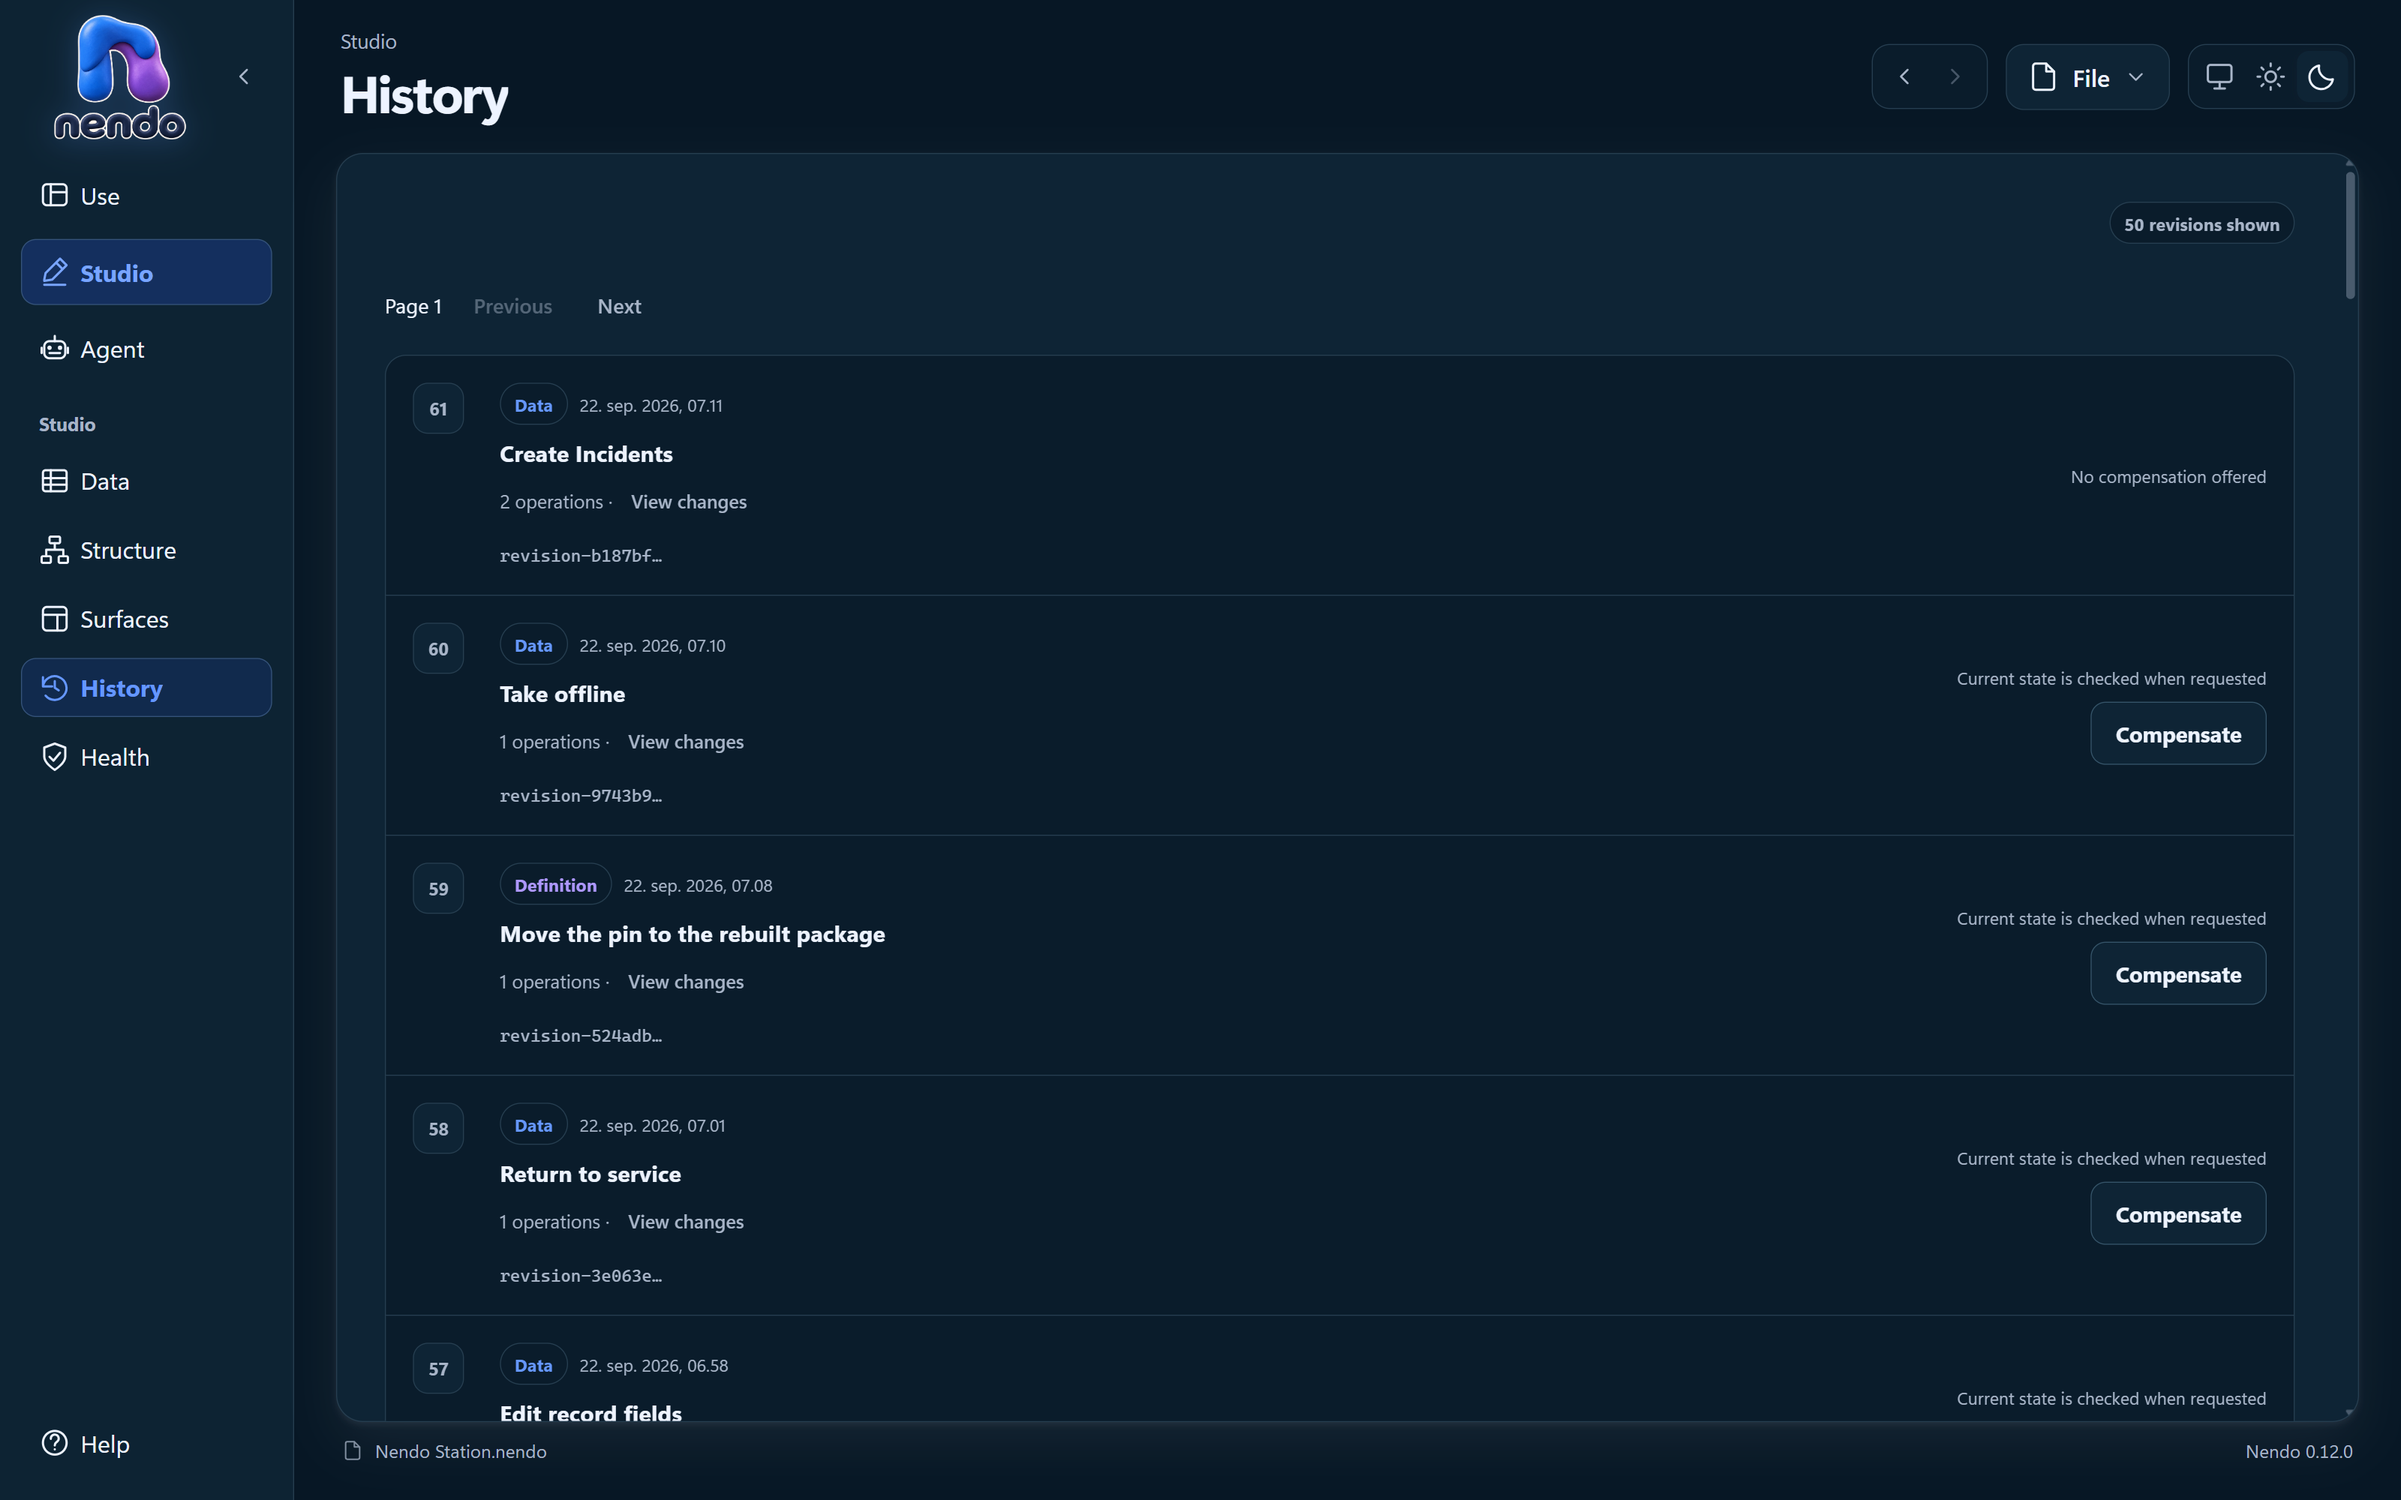
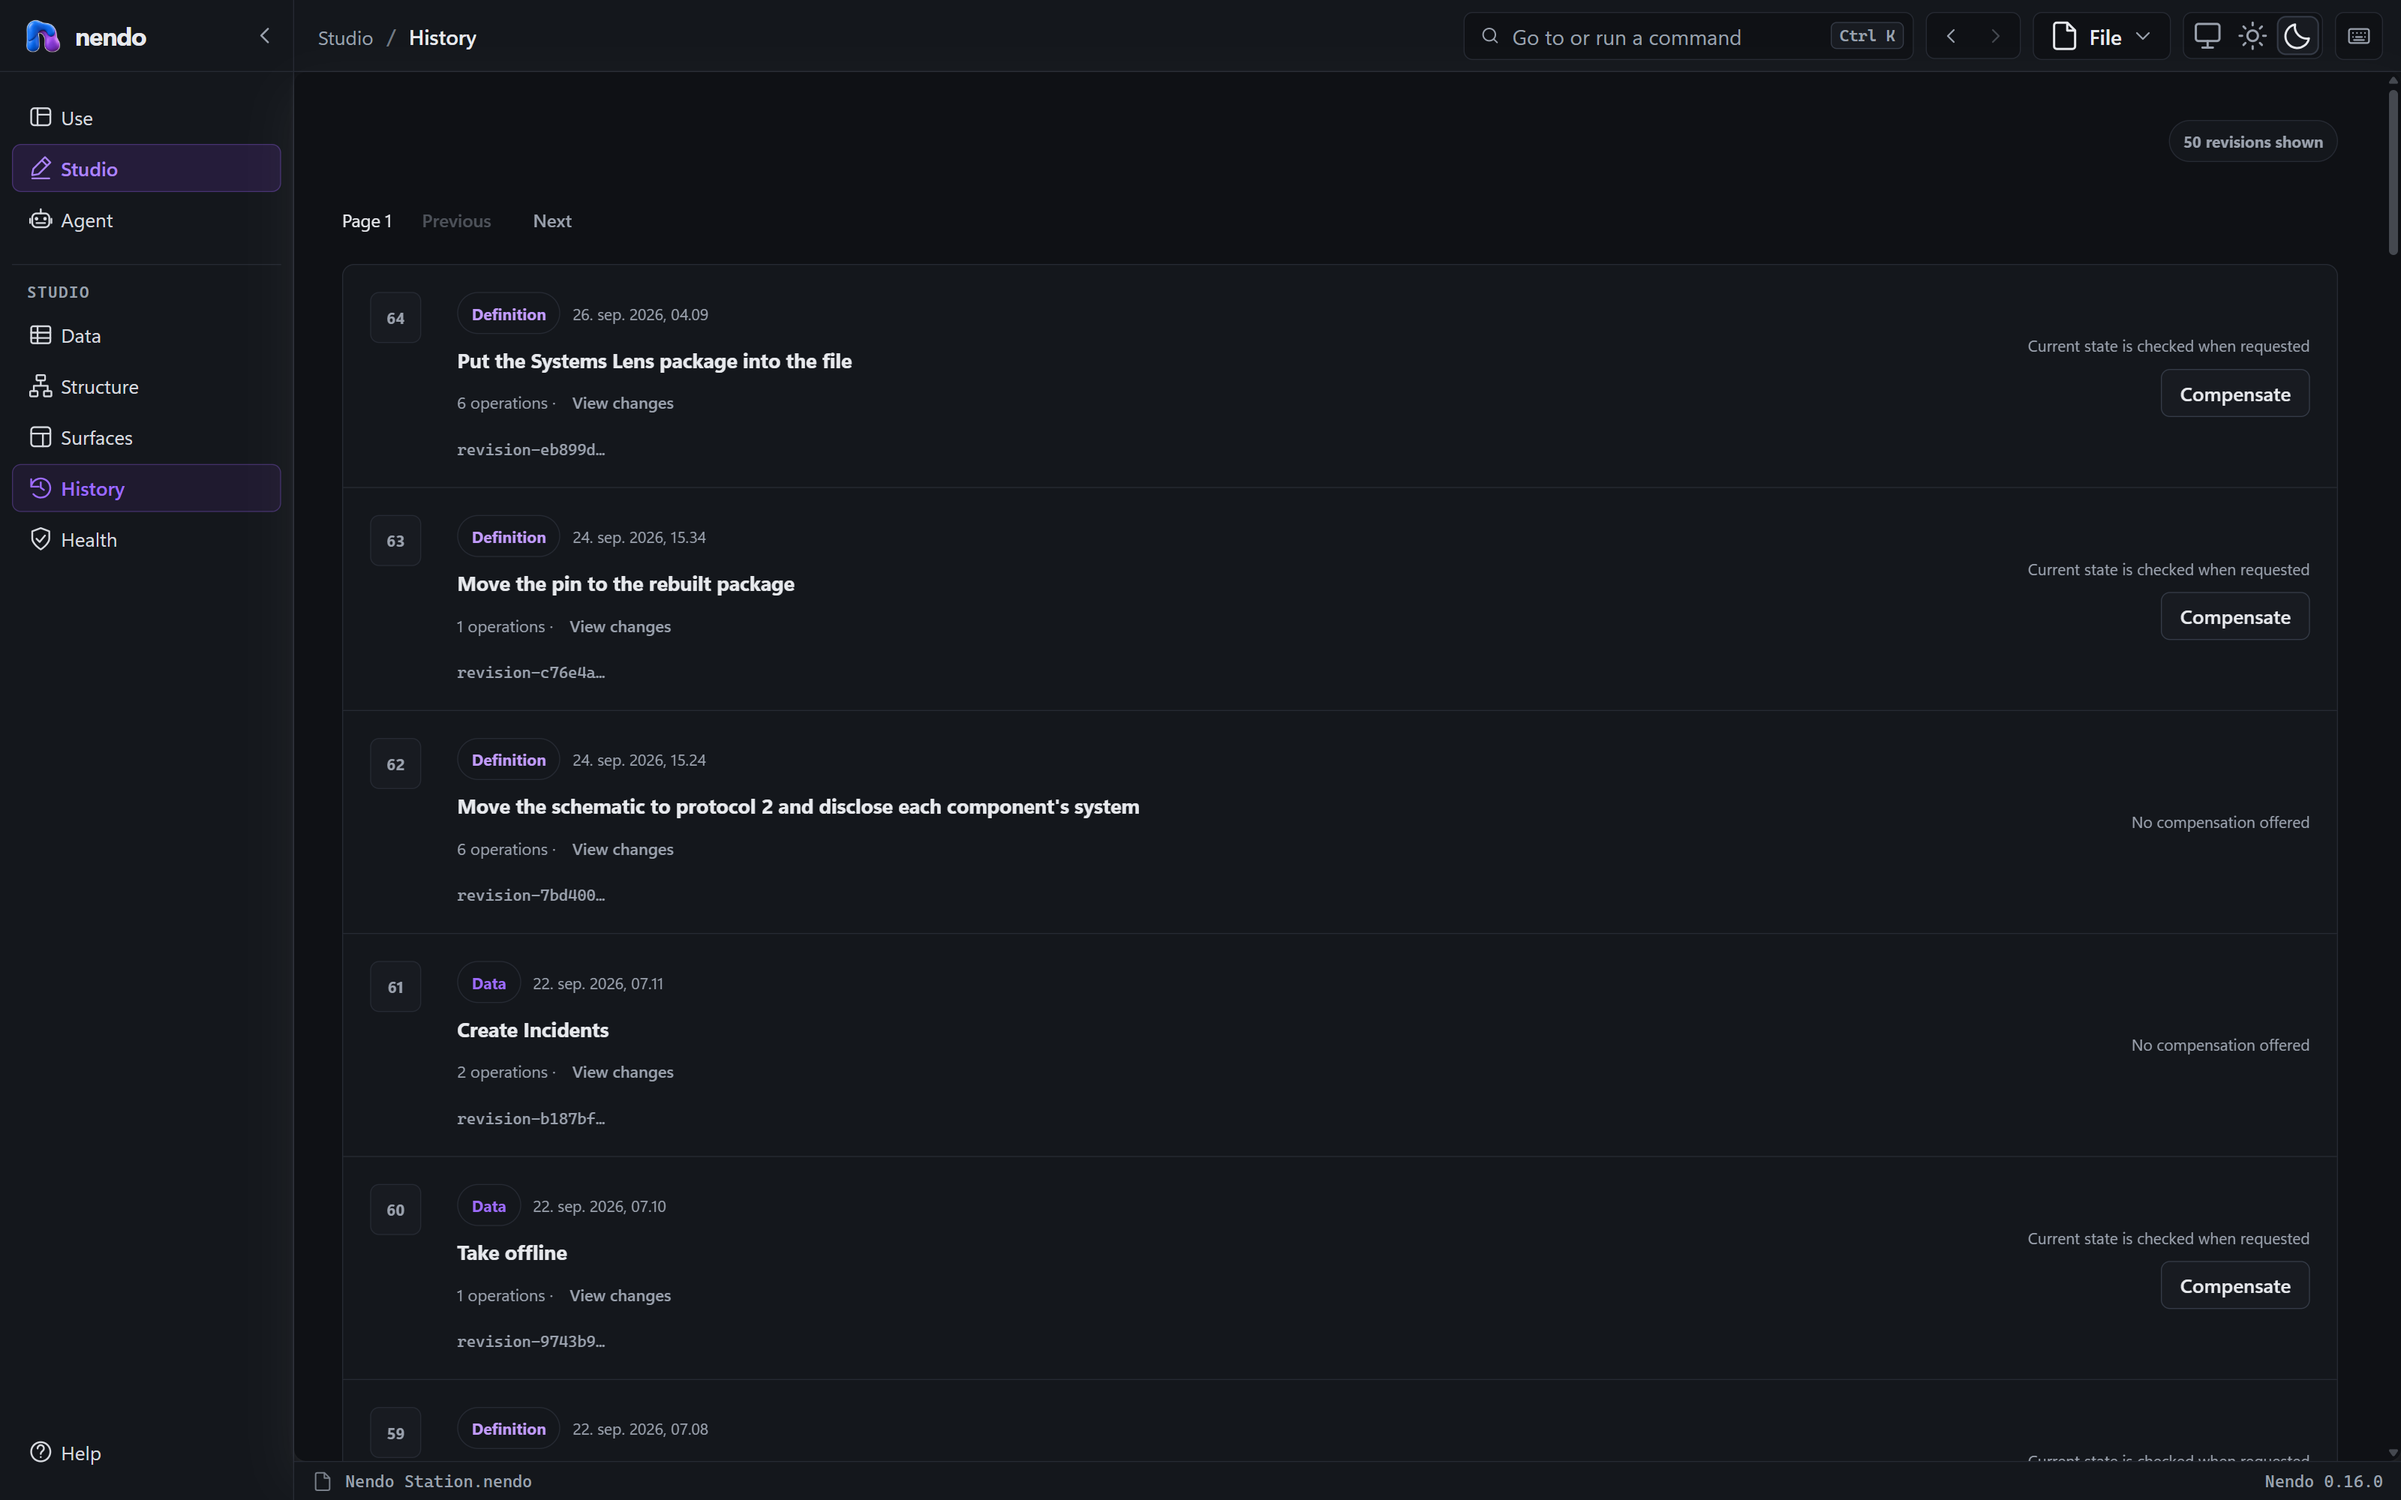
Cut 0.16.0
The Console visual direction (W-067): the whole app restyled, a command
palette on Ctrl K, page shortcuts, and a Show keyboard shortcuts toggle.
The site's 24 screenshots are recaptured from the 0.16.0 debug build
against Nendo Station.

Test-Production passed on this tree, and so did Test-Site, the repository
gate and the isolated setup lane on the rebuilt installer.

diff --git a/README.md b/README.md
@@ -24,7 +24,7 @@ documentation rendered as a site.
 </p>
 
 <p align="center"><sub>A board an agent authored over MCP, in the running host.
-Captured from the 2026-09-12 review build (0.15.0 is current), with the rest of
+Captured from the 2026-09-12 review build (0.16.0 is current), with the rest of
 that review in <a href="docs/reviews/README.md">docs/reviews/</a>.</sub></p>
 
 The installed host always provides **Nendo Studio**, a high-quality database

diff --git a/site/src/content/docs/roadmap.md b/site/src/content/docs/roadmap.md
@@ -20,7 +20,7 @@ The core loop works end to end:
    calculations or actions.
 5. Review the agent's proposal as a semantic diff, and accept or reject it.
 
-The current version is 0.15.0. It runs on Windows x64 only, as an unsigned
+The current version is 0.16.0. It runs on Windows x64 only, as an unsigned
 per-user install. You build the installer from source; see
 [Using Nendo](/nendo/use).
 
